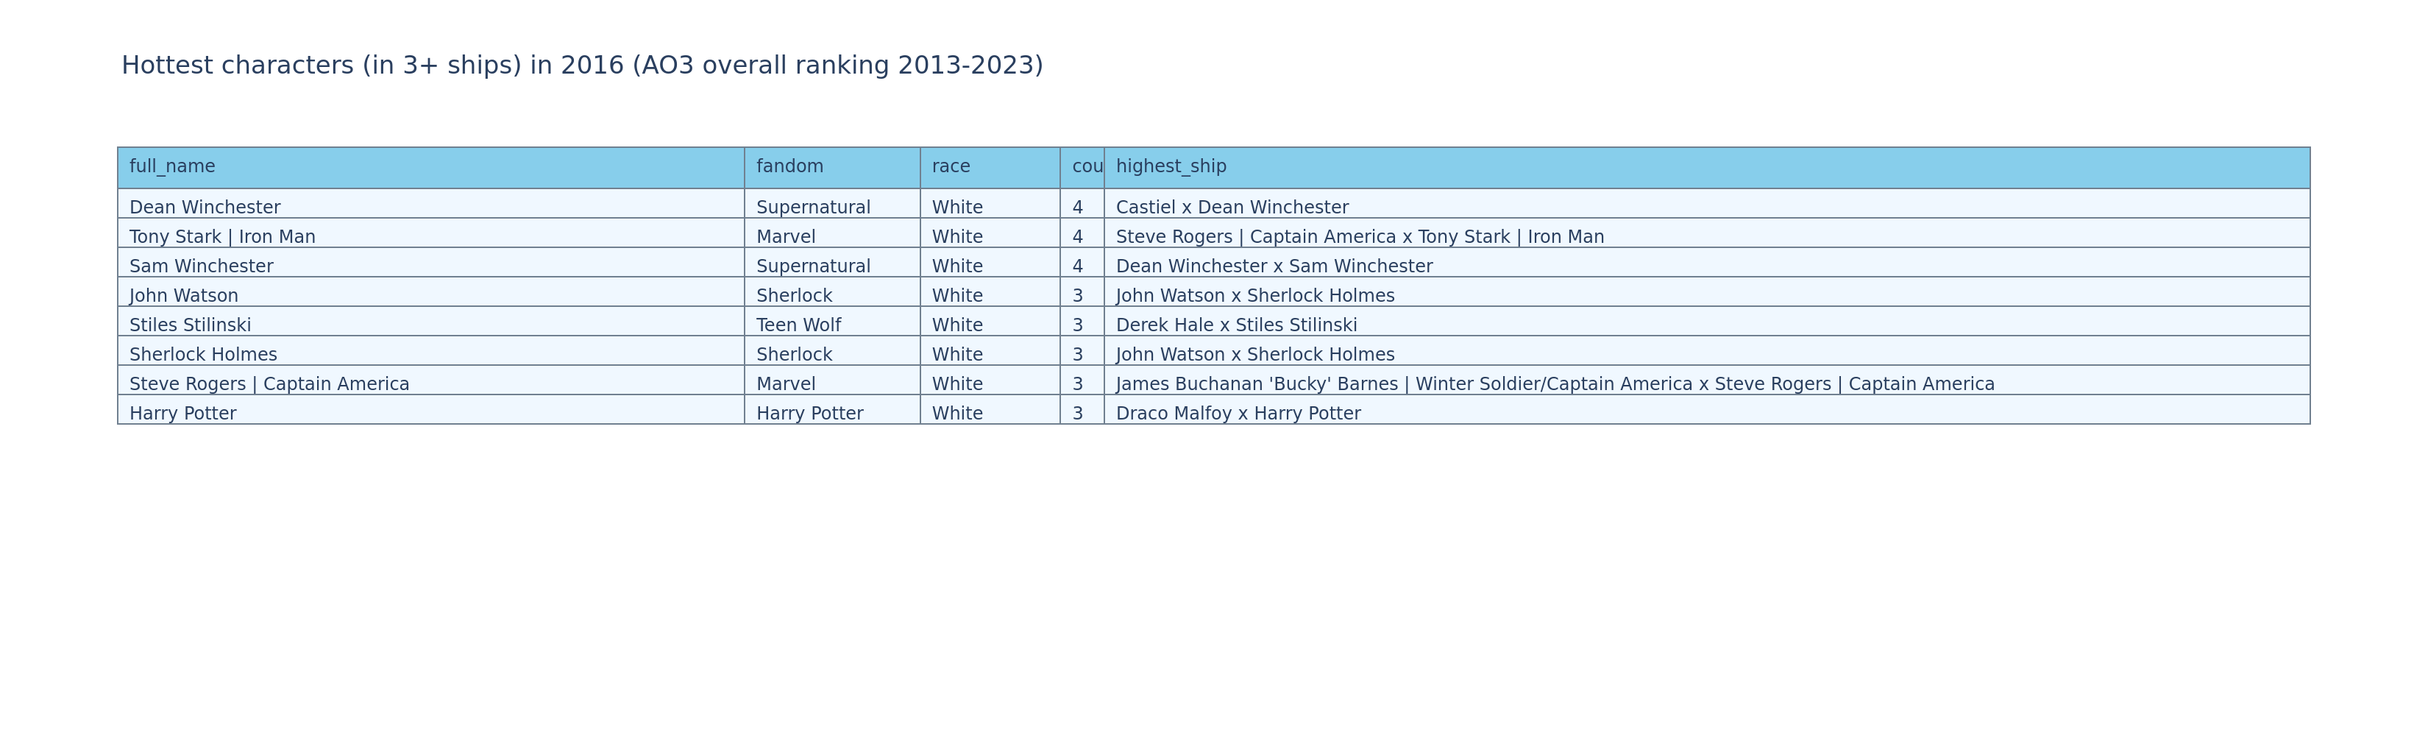
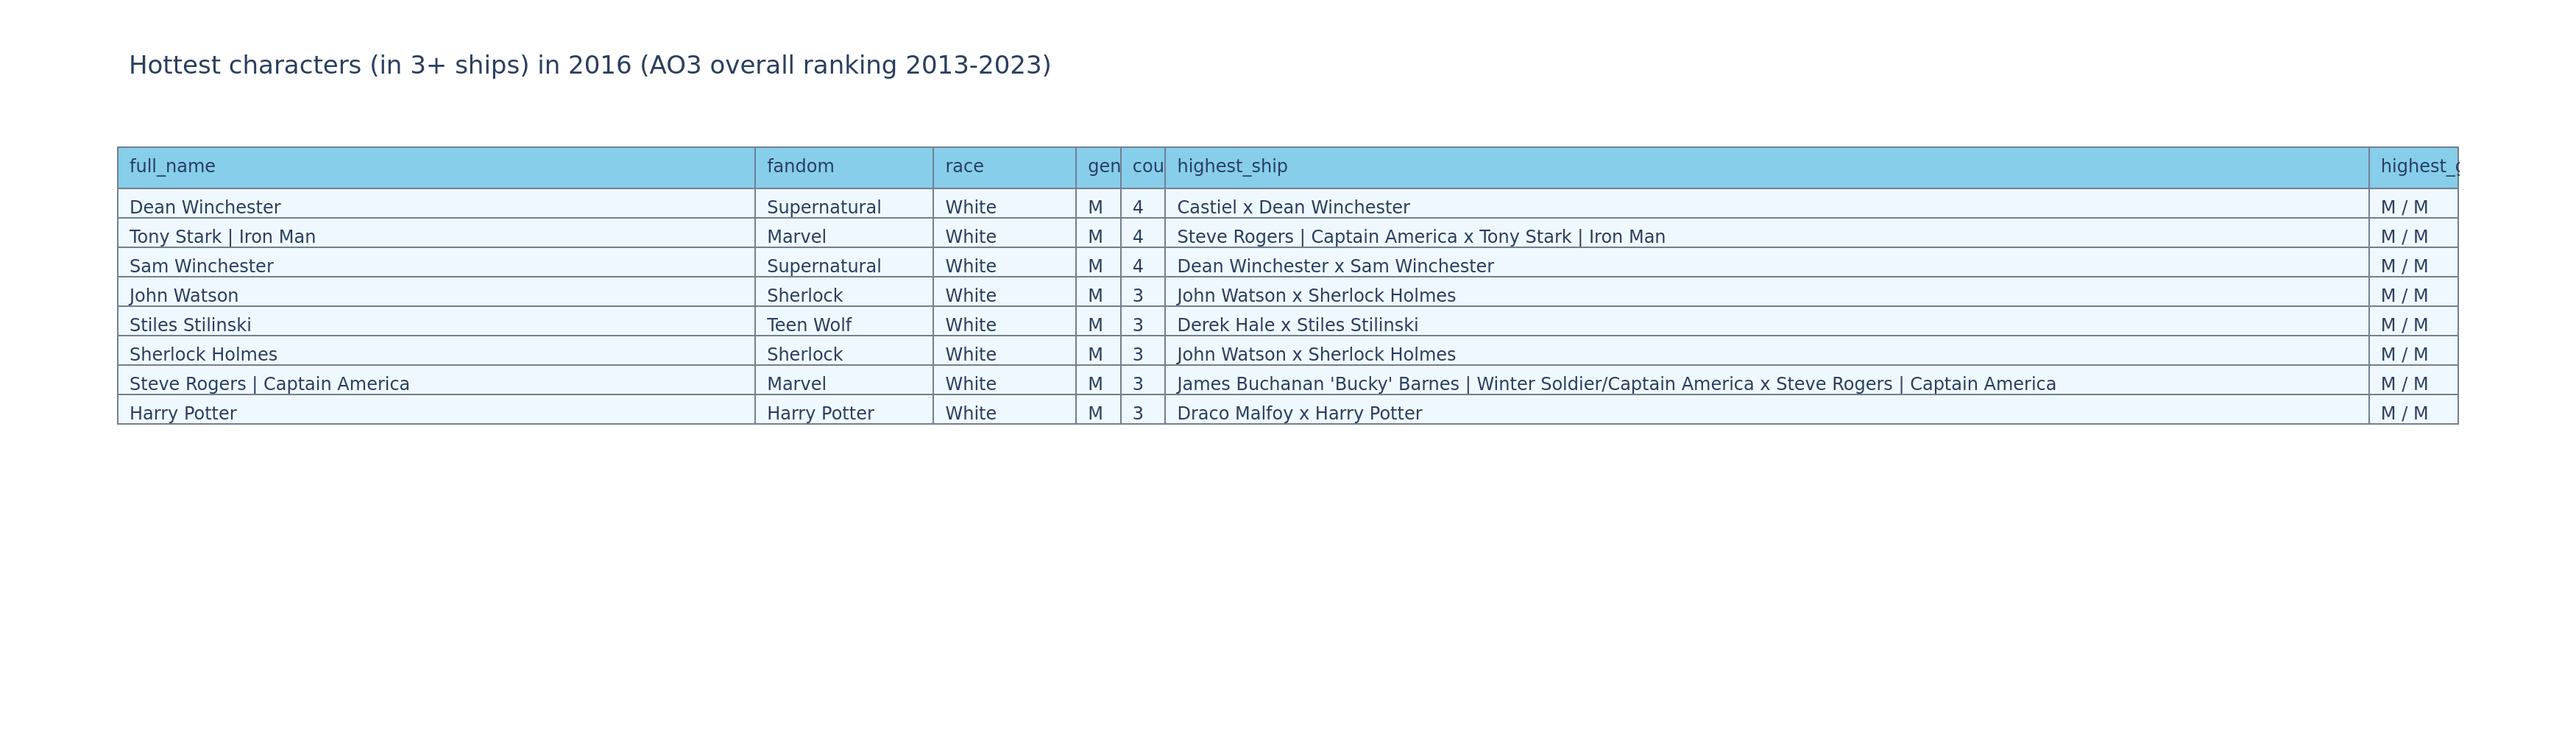
visualise hottest overall characters

diff --git a/visualisation/input_data_code/make_hottest_chars.py b/visualisation/input_data_code/make_hottest_chars.py
@@ -5,10 +5,11 @@ from visualisation.vis_utils.df_utils.retrieve_numbers import (
 )
 from visualisation.vis_utils.df_utils.make_dfs import sort_df, get_year_df
 import pandas as pd
+from visualisation.input_data_code.make_file_dfs import make_ships_df
 
 # no 1 hottest character each year (in most ships)
     # & their highest-ranked ship
-def hottest_char_ranking(character_info_df:pd.DataFrame):
+def hottest_char_ranking(character_info_df:pd.DataFrame, ranking:str):
     """
     takes dataframe that (at least) contains "year", "full_name", "ship", "rank_no", 
     "fandom", "race", "rpf_or_fic" columns
@@ -18,9 +19,17 @@ def hottest_char_ranking(character_info_df:pd.DataFrame):
     the dataframes contain the numbers of ships each character that year was in,
     ordered from most to least, and which their highest-ranked ship was
     """
+    if ranking == "femslash":
+        get_list = ["year", "full_name", "ship", "rank_no", "fandom", "race", "rpf_or_fic"]
+    else:
+        get_list = ["year", "full_name", "ship", "rank_no", "fandom", "race", "gender", "rpf_or_fic"]
+
     new_df = character_info_df.copy().get(
-        ["year", "full_name", "ship", "rank_no", "fandom", "race", "rpf_or_fic"]
+        get_list
     )
+
+    if ranking != "femslash": # don't need this for femslash
+        ships_df = make_ships_df()
 
     # group by years
     year_dict = {}
@@ -30,9 +39,10 @@ def hottest_char_ranking(character_info_df:pd.DataFrame):
         year_df = year_df.dropna()
 
         # group by characters
+        group_list = get_list[:2] + get_list[4:]
         # count
         hottest_df = get_label_counts(
-            year_df, ["year", "full_name", "fandom", "race", "rpf_or_fic"], "ship"
+            year_df, group_list, "ship"
         )
         hottest_df = sort_df(hottest_df, "count")
         hottest_df = hottest_df.reset_index()
@@ -45,9 +55,22 @@ def hottest_char_ranking(character_info_df:pd.DataFrame):
                 year_df["full_name"] == character
             ).sort_values(by="rank_no").head(1)
 
-            highest_ships_by_char[character] = list(char_df["ship"])[0]
+            highest_ship = list(char_df["ship"])[0]
+            # I wanna attach the gender combo for non-femslash rankings!
+            if ranking != "femslash":
+                gender_combo = ships_df["gender_combo"].where(
+                    (ships_df["slash_ship"] == highest_ship) | (ships_df["gen_ship"] == highest_ship)
+                ).dropna()
+                gender_combo = list(gender_combo)[0]
+            else: gender_combo = ""
+
+            highest_ships_by_char[character] = [highest_ship, gender_combo]
         
-        hottest_df["highest_ship"] = [highest_ships_by_char[name] for name in hottest_df["full_name"]]
+        hottest_df["highest_ship"] = [highest_ships_by_char[name][0] for name in hottest_df["full_name"]]
+        if ranking != "femslash":
+            hottest_df["highest_gender_combo"] = [
+                highest_ships_by_char[name][1] for name in hottest_df["full_name"]
+            ]
         hottest_df.pop("rank_no")
 
         year_dict[int(year)] = hottest_df
@@ -55,7 +78,7 @@ def hottest_char_ranking(character_info_df:pd.DataFrame):
     return year_dict
 
 # need to separate out chars we wanna visualise as a lot are tied & it's by year not fandom
-def hottest_char(character_info_df:pd.DataFrame):
+def hottest_char(character_info_df:pd.DataFrame, ranking:str):
     """
     takes dataframe that (at least) contains "year", "full_name", "ship", "rank_no", 
     "fandom", "race", "rpf_or_fic" columns
@@ -74,7 +97,7 @@ def hottest_char(character_info_df:pd.DataFrame):
     of ships (3+ only) and the names of all characters who tied for that number of ships that year
     """
 
-    hottest_dict = hottest_char_ranking(character_info_df)
+    hottest_dict = hottest_char_ranking(character_info_df, ranking)
 
     hottest_data = {}
     for year in hottest_dict:

diff --git a/visualisation/ao3_overall_rankings_2013_2023/vis_overall_ranking_run_code.py b/visualisation/ao3_overall_rankings_2013_2023/vis_overall_ranking_run_code.py
@@ -136,7 +136,7 @@ top_5_fandoms_fig.write_image(
 # all time top 5 ships by longest streak in top 10
 
 # hottest characters
-hottest_chars = hottest_char(overall_character_info_df)
+hottest_chars = hottest_char(overall_character_info_df, "overall")
     # possibly another chart abt how many chars were in how many ships over the years
 visualise_hottest_chars(hottest_chars, "overall") # writes its own files
 

diff --git a/visualisation/diagram_code/visualise_tables.py b/visualisation/diagram_code/visualise_tables.py
@@ -209,8 +209,8 @@ def visualise_hottest_chars(input_dict:dict, ranking:str):
         height = 350
     elif ranking == "overall":
         colours = colour_palettes.blue_table
-        column_width = [1.43,0.4,0.32,0.1,2.75]
-        width = 1650
+        column_width = [1.43,0.4,0.32,0.1,0.1,2.7,0.2]
+        width = 1750
         height = 500
 
     line_colour = colours["lines"] # colour of lines

diff --git a/visualisation/ao3_femslash_rankings_2014_2023/vis_femslash_ranking_run_code.py b/visualisation/ao3_femslash_rankings_2014_2023/vis_femslash_ranking_run_code.py
@@ -124,7 +124,7 @@ longest_running_fig.write_image(
     scale=2
 )
 
-hottest_wlw = hottest_char(femslash_character_info_df)
+hottest_wlw = hottest_char(femslash_character_info_df, "femslash")
     # possibly another chart abt how many chars were in how many ships over the years
 visualise_hottest_chars(hottest_wlw, "femslash") # writes its own files
 
